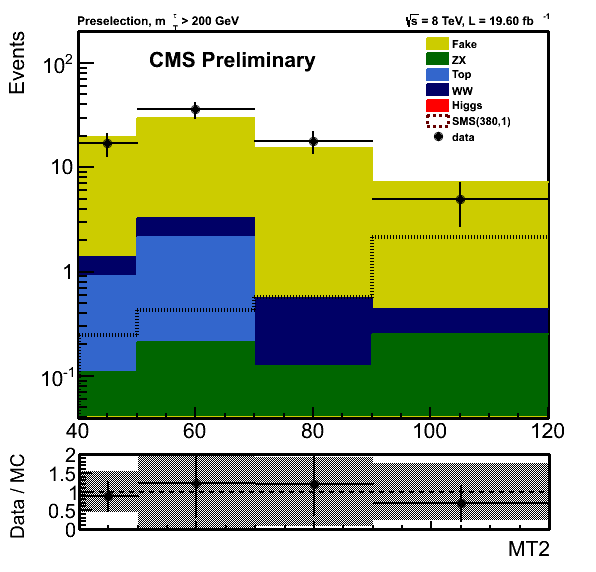
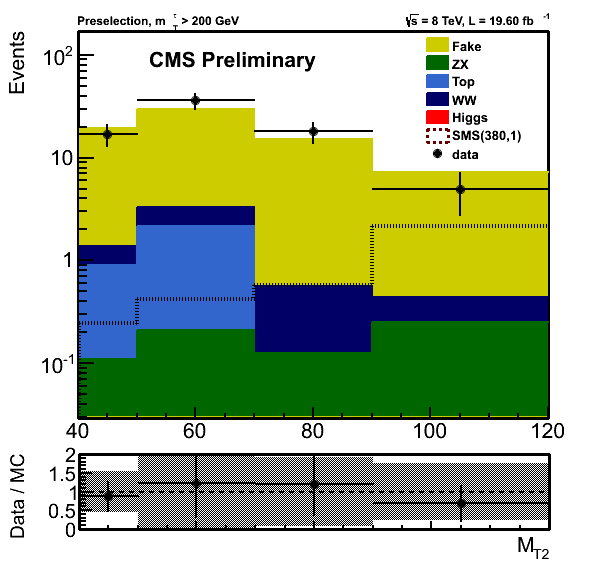
DD muTau updated.

diff --git a/notes/AN-14-275/trunk/StatisticsFig/MT2_tauMTgt200_DDFake.C b/notes/AN-14-275/trunk/StatisticsFig/MT2_tauMTgt200_DDFake.C
@@ -1,4 +1,6 @@
 {   
+  float sysMC   = 0.25;
+  float sysLRMC = 0.5;
   const int nBins = 6;
 
   Double_t xbin[7] = {0, 20, 40, 50, 70, 90, 120}; 
@@ -51,7 +53,7 @@
    h_stack_stack_1->SetDirectory(0);
    h_stack_stack_1->SetStats(0);
    h_stack_stack_1->SetLineWidth(2);
-   h_stack_stack_1->GetXaxis()->SetTitle("MT2");
+   h_stack_stack_1->GetXaxis()->SetTitle("M_{T2}");
    h_stack_stack_1->GetXaxis()->SetNdivisions(505);
    h_stack_stack_1->GetXaxis()->SetLabelFont(42);
    h_stack_stack_1->GetXaxis()->SetLabelSize(0.05);
@@ -395,6 +397,13 @@
    TH1D *hAllMC__Zjets = hAllMC1__Zjets->Rebin(nBins,"hAllMC__Zjets",xbin);   
    hAllMC__Zjets->Add(h2_DDFakeZX, -1);
 
+  for(int i = 1; i <= hAllMC__Zjets->GetNbinsX(); i++){
+     float Content = hAllMC__Zjets->GetBinContent(i);   
+     float error   = hAllMC__Zjets->GetBinError(i);
+     error = sqrt(error * error + sysMC * sysMC * Content * Content);
+     hAllMC__Zjets->SetBinError(i, error);
+   }
+
 
    ci = TColor::GetColor("#006600");
    hAllMC__Zjets->SetFillColor(ci);
@@ -482,6 +491,18 @@
 
    TH1D *hAllMC__Top = hAllMC1__Top->Rebin(nBins,"hAllMC__Top",xbin);   
    hAllMC__Top->Add(h2_DDFakeTop, -1);
+
+
+
+ for(int i = 1; i <= hAllMC__Top->GetNbinsX(); i++){
+     float Content = hAllMC__Top->GetBinContent(i);   
+     float error   = hAllMC__Top->GetBinError(i);
+     error = sqrt(error * error + sysLRMC * sysLRMC * Content * Content);
+     hAllMC__Top->SetBinError(i, error);
+   }
+
+
+
 
    ci = TColor::GetColor("#3366cc");
    hAllMC__Top->SetFillColor(ci);
@@ -621,6 +642,12 @@
 
    TH1D *hAllMC__WWjets = hAllMC1__WWjets->Rebin(nBins,"hAllMC__WWjets",xbin);   
    hAllMC__WWjets->Add(h2_DDFakeWW, -1);
+  for(int i = 1; i <= hAllMC__WWjets->GetNbinsX(); i++){
+     float Content = hAllMC__WWjets->GetBinContent(i);   
+     float error   = hAllMC__WWjets->GetBinError(i);
+     error = sqrt(error * error + sysLRMC * sysLRMC * Content * Content);
+     hAllMC__WWjets->SetBinError(i, error);
+   }
 
 
 
@@ -720,6 +747,12 @@
    TH1D *hAllMC__Higgs = hAllMC1__Higgs->Rebin(nBins,"hAllMC__Higgs",xbin);   
    hAllMC__Higgs->Add(h2_DDFakeHiggs, -1);
 
+ for(int i = 1; i <= hAllMC__Higgs->GetNbinsX(); i++){
+     float Content = hAllMC__Higgs->GetBinContent(i);   
+     float error   = hAllMC__Higgs->GetBinError(i);
+     error = sqrt(error * error + sysLRMC * sysLRMC * Content * Content);
+     hAllMC__Higgs->SetBinError(i, error);
+   }
 
 
    ci = TColor::GetColor("#ff0000");
@@ -1252,7 +1285,7 @@ tex->SetNDC();
    h1_copy->SetFillColor(1);
    h1_copy->SetFillStyle(3001);
    h1_copy->SetLineWidth(2);
-   h1_copy->GetXaxis()->SetTitle("MT2");
+   h1_copy->GetXaxis()->SetTitle("M_{T2}");
    h1_copy->GetXaxis()->SetNdivisions(505);
    h1_copy->GetXaxis()->SetLabelFont(42);
    h1_copy->GetXaxis()->SetLabelSize(0);

diff --git a/notes/SUS-14-022/trunk/StatisticsFig/MT2_tauMTgt200_DDFake.C b/notes/SUS-14-022/trunk/StatisticsFig/MT2_tauMTgt200_DDFake.C
@@ -1,4 +1,6 @@
 {   
+  float sysMC   = 0.25;
+  float sysLRMC = 0.5;
   const int nBins = 6;
 
   Double_t xbin[7] = {0, 20, 40, 50, 70, 90, 120}; 
@@ -51,7 +53,7 @@
    h_stack_stack_1->SetDirectory(0);
    h_stack_stack_1->SetStats(0);
    h_stack_stack_1->SetLineWidth(2);
-   h_stack_stack_1->GetXaxis()->SetTitle("MT2");
+   h_stack_stack_1->GetXaxis()->SetTitle("M_{T2}");
    h_stack_stack_1->GetXaxis()->SetNdivisions(505);
    h_stack_stack_1->GetXaxis()->SetLabelFont(42);
    h_stack_stack_1->GetXaxis()->SetLabelSize(0.05);
@@ -395,6 +397,13 @@
    TH1D *hAllMC__Zjets = hAllMC1__Zjets->Rebin(nBins,"hAllMC__Zjets",xbin);   
    hAllMC__Zjets->Add(h2_DDFakeZX, -1);
 
+  for(int i = 1; i <= hAllMC__Zjets->GetNbinsX(); i++){
+     float Content = hAllMC__Zjets->GetBinContent(i);   
+     float error   = hAllMC__Zjets->GetBinError(i);
+     error = sqrt(error * error + sysMC * sysMC * Content * Content);
+     hAllMC__Zjets->SetBinError(i, error);
+   }
+
 
    ci = TColor::GetColor("#006600");
    hAllMC__Zjets->SetFillColor(ci);
@@ -482,6 +491,18 @@
 
    TH1D *hAllMC__Top = hAllMC1__Top->Rebin(nBins,"hAllMC__Top",xbin);   
    hAllMC__Top->Add(h2_DDFakeTop, -1);
+
+
+
+ for(int i = 1; i <= hAllMC__Top->GetNbinsX(); i++){
+     float Content = hAllMC__Top->GetBinContent(i);   
+     float error   = hAllMC__Top->GetBinError(i);
+     error = sqrt(error * error + sysLRMC * sysLRMC * Content * Content);
+     hAllMC__Top->SetBinError(i, error);
+   }
+
+
+
 
    ci = TColor::GetColor("#3366cc");
    hAllMC__Top->SetFillColor(ci);
@@ -621,6 +642,12 @@
 
    TH1D *hAllMC__WWjets = hAllMC1__WWjets->Rebin(nBins,"hAllMC__WWjets",xbin);   
    hAllMC__WWjets->Add(h2_DDFakeWW, -1);
+  for(int i = 1; i <= hAllMC__WWjets->GetNbinsX(); i++){
+     float Content = hAllMC__WWjets->GetBinContent(i);   
+     float error   = hAllMC__WWjets->GetBinError(i);
+     error = sqrt(error * error + sysLRMC * sysLRMC * Content * Content);
+     hAllMC__WWjets->SetBinError(i, error);
+   }
 
 
 
@@ -720,6 +747,12 @@
    TH1D *hAllMC__Higgs = hAllMC1__Higgs->Rebin(nBins,"hAllMC__Higgs",xbin);   
    hAllMC__Higgs->Add(h2_DDFakeHiggs, -1);
 
+ for(int i = 1; i <= hAllMC__Higgs->GetNbinsX(); i++){
+     float Content = hAllMC__Higgs->GetBinContent(i);   
+     float error   = hAllMC__Higgs->GetBinError(i);
+     error = sqrt(error * error + sysLRMC * sysLRMC * Content * Content);
+     hAllMC__Higgs->SetBinError(i, error);
+   }
 
 
    ci = TColor::GetColor("#ff0000");
@@ -1252,7 +1285,7 @@ tex->SetNDC();
    h1_copy->SetFillColor(1);
    h1_copy->SetFillStyle(3001);
    h1_copy->SetLineWidth(2);
-   h1_copy->GetXaxis()->SetTitle("MT2");
+   h1_copy->GetXaxis()->SetTitle("M_{T2}");
    h1_copy->GetXaxis()->SetNdivisions(505);
    h1_copy->GetXaxis()->SetLabelFont(42);
    h1_copy->GetXaxis()->SetLabelSize(0);

diff --git a/notes/AN-14-275/trunk/Systematics.tex b/notes/AN-14-275/trunk/Systematics.tex
@@ -172,20 +172,18 @@ m(\chione) = 400 GeV                &$17.51.40^{+0.0 \% + 6.8 \%}_{-0.3 \% - 6.3
 m(\chione) = 500 GeV                &$5.53^{+0.0 \% + 8.1 \%}_{-0.9 \% - 7.0 \%}$            & 12 \%        \\\hline
 \end{tabular} 
 \end{center}
-\caption{Cross section systematic uncertainty due to different PDF
-}
+\caption{Cross section systematic uncertainty due to different PDF.}
 \label{Tab.PDF}
 \end{table}     
 \subsection{Pile-up}
 
 The minimum bias cross section is varied $5 \%$ up and down following the standard recipe of ~\cite{PU_SYS}. It is found to introduce $~4 \%$ systematic for all channels.    
-\\
 
 \subsection{\texorpdfstring{$\met$}{met}}
 
 The main backgrounds come from data driven or MC validated against data. \MET uncertainties can be important for signal only. Our signal is produced through an SUSY EWK production and does not include jets directly but it is expected to feature four invisible particles as genuine missing energy. Therefore it should not be affected by jet calibrations. Apart from jets, lepton and tau energy scales and their effects on \MET have been already taken into account. There is just unclustered energy left which based on results in ~\cite{CMS_AN_2014-099} this item's effect on \MET is small enough to be ignored.
 
-\subsection{Low rate backgrounds} For some backgrounds like \ttbar, $Z+$ jets, dibosons and Higgs decays, the remaining 
+\subsection{Low rate backgrounds} For some backgrounds like \ttbar, dibosons and Higgs decays, the remaining 
 events from the simulation are very small. A 50\% uncertainty is considered for these backgrounds to account for the theoretical uncertainty of the
 cross section calculation as well as the shape mismodeling.
 

diff --git a/notes/SUS-14-022/trunk/Introduction.tex b/notes/SUS-14-022/trunk/Introduction.tex
@@ -84,7 +84,7 @@ The paper is organized as follows.  The CMS detector, the event reconstruction, 
 in Section \ref{sect:CMSRec}; the \mttwo variable is introduced in Section \ref{sect:mt2def}; 
 the event selections for the two channels ($\hadtau \hadtau$ and $\leptonTau$)
 are described in Sections \ref{sect:tauTauCuts} and \ref{sect:eleTauCuts}, respectively;
-a detailed study of the SM backgrounds is presented in Section \ref{sect:bkgLepTau}, while Section \ref{sect:sys} 
+a detailed study of the SM backgrounds is presented in Section \ref{sect:bkg}, while Section \ref{sect:sys} 
 is devoted to the evaluation of the systematic uncertainties.  The result of the search with its statistical interpretation is presented in 
 Section \ref{sect:stat}, and the paper is finally summarized in Section \ref{sect:conclusion}.
 

diff --git a/notes/SUS-14-022/trunk/Systematics.tex b/notes/SUS-14-022/trunk/Systematics.tex
@@ -64,7 +64,7 @@ reconstructed objects which do not belong to a jet or lepton with \PT $>$ 10 \GE
 The effect of lepton and \Tau energy scale are already discussed. The contribution of the jet energy scale and unclustered energy is 
 found to be negligible. A conservative relative uncertainty of 5\% is assigned to the signal and background events which are read from the 
 Monte Carlo simulation.
-\item For some backgrounds like \ttbar, $Z+$ jets, dibosons and Higgs decays, the remaining 
+\item For some backgrounds like \ttbar,  dibosons and Higgs decays, the remaining 
 events from the simulation are very small. A 50\% uncertainty is considered for these backgrounds to account for the theoretical uncertainty of the
 cross section calculation as well as the shape mismodeling.
 \end{itemize}

diff --git a/notes/SUS-14-022/trunk/Backgrounds.tex b/notes/SUS-14-022/trunk/Backgrounds.tex
@@ -1,5 +1,5 @@
 \section{Backgrounds}
-\label{sect:bkgLepTau}
+\label{sect:bkg}
 We separate the backgrounds into two distinct categories.  Those with 
 ``fake'' \Tau, i.e., events where a quark or gluon jet has been misidentified
 as a \Tau, and those without \Tau misidentifications.  
